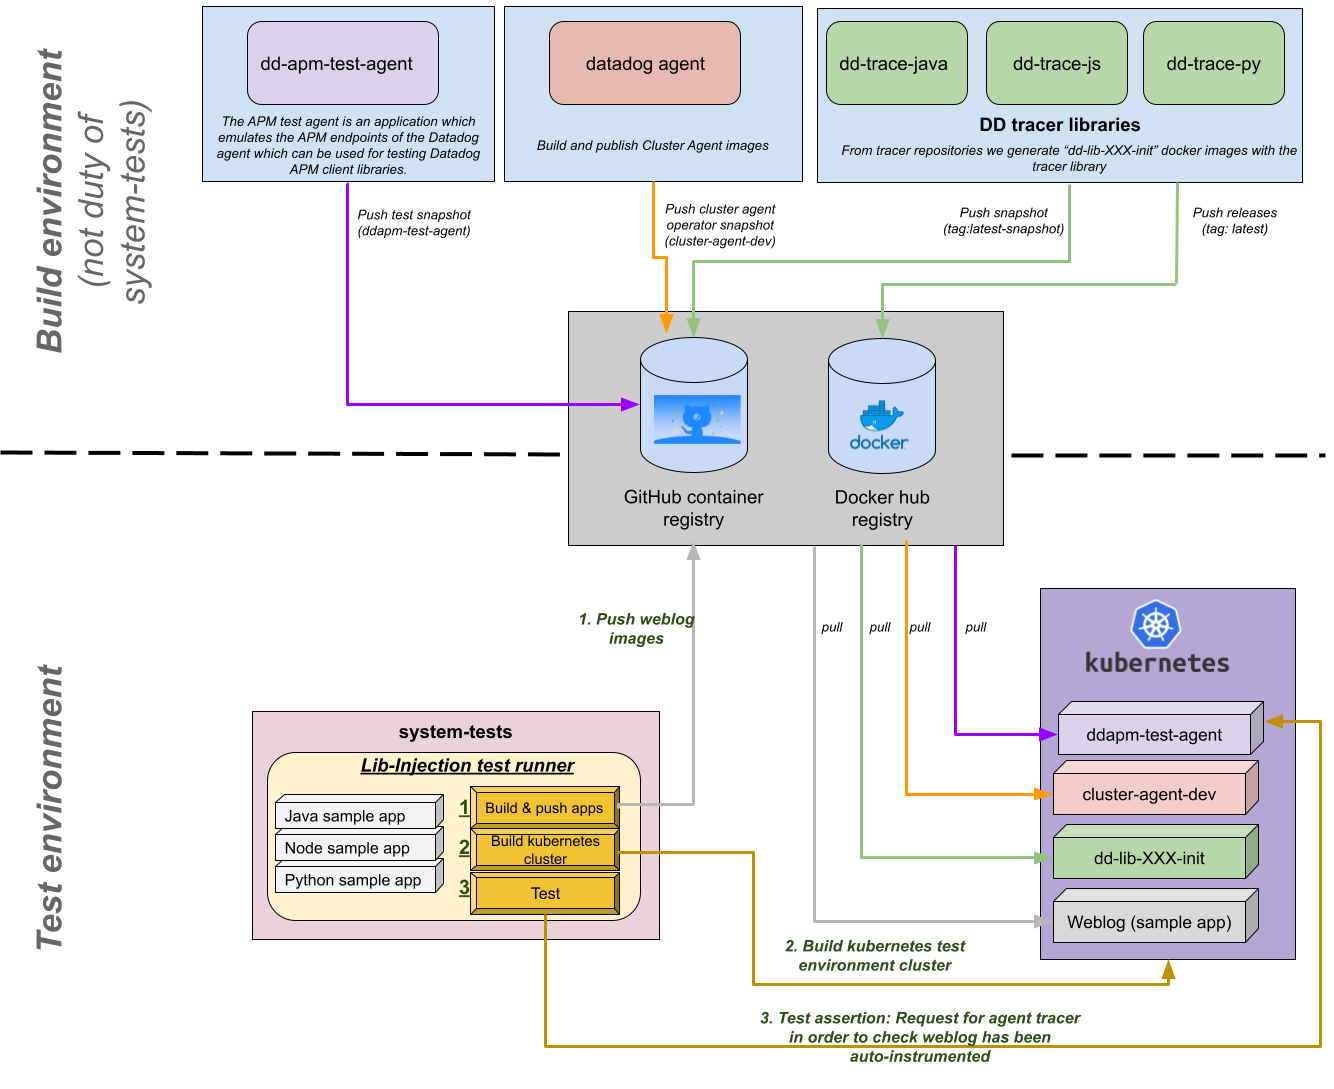
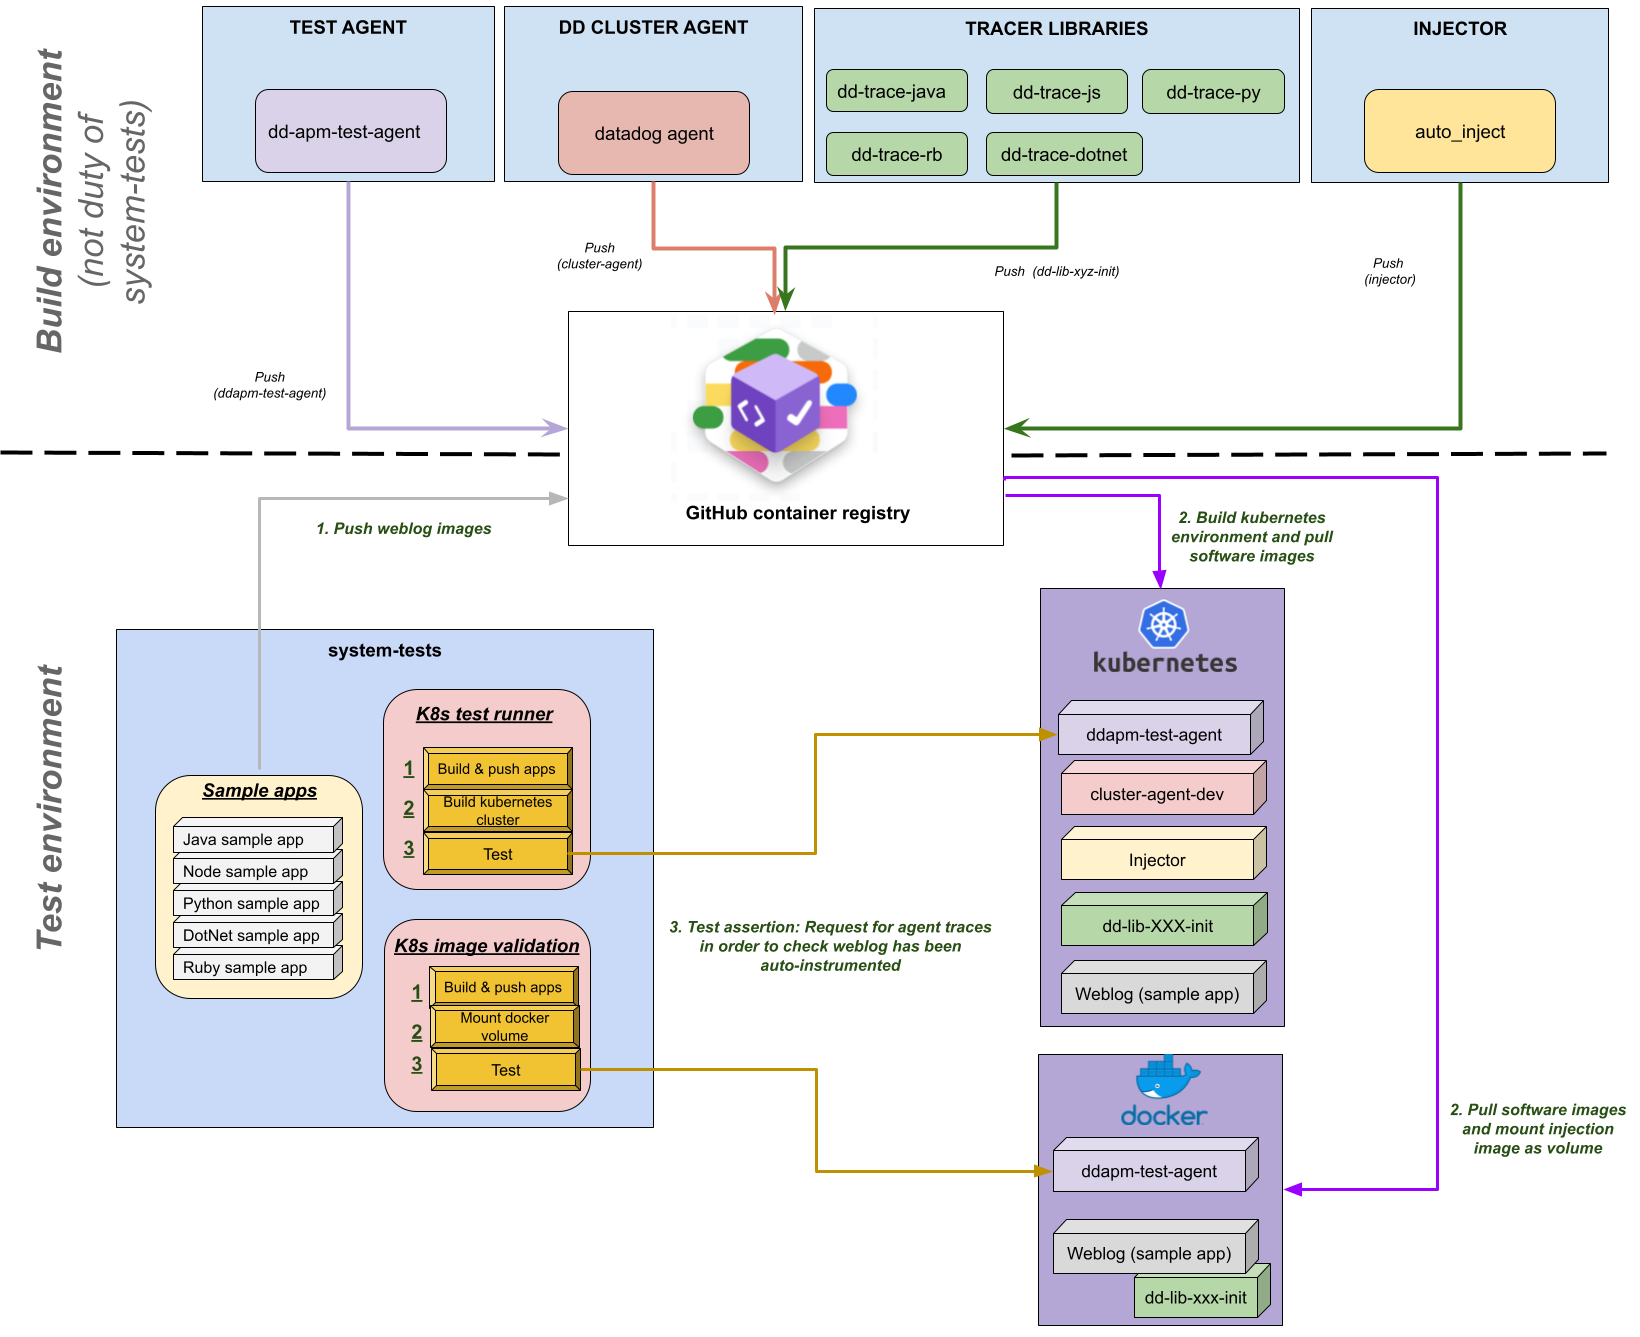
K8s documentation

diff --git a/docs/scenarios/k8s_lib_injection.md b/docs/scenarios/k8s_lib_injection.md
@@ -1,6 +1,17 @@
-# lib-injection feature
+# Testing K8s library injection feature
 
-## What is the lib-injection feature?
+1. [Overall](#Overall)
+    * [What is the library injection feature?](#What-is-the-k8s-library-injection-feature?)
+    * [What’s the Datadog Cluster Agent and why?](#What’s-the-Datadog-Cluster-Agent-and-why?)
+2. [K8s tested components](#K8s-tested-components)
+    * [Run K8s library image validation](#Run-K8s-library-image-validation)
+    * [Run K8s library injection tests](#Run-K8s-library-image-validation)
+3. [Third Example](#third-example)
+4. [Fourth Example](#fourth-examplehttpwwwfourthexamplecom)
+
+## Overall
+
+### What is the k8s library injection feature?
 
 The lib-injection project is a feature to allow injection of the Datadog library
 into a customer's application container without requiring them to modify their
@@ -13,17 +24,13 @@ APM libraries.
 Currently, there are two different ways to have the Datadog library injected
 into the application container:
 
-1) Manually via Kubernetes annotations:
-  * Using Datadog Admission Controller: [Injecting Libraries Kubernetes](https://docs.datadoghq.com/tracing/trace_collection/admission_controller/).
-  * Adding library injection specific annotations (without Datadog Admission Controller): [Application Instrumentation](https://docs.datadoghq.com/tracing/trace_collection/), [Add the Datadog Tracing Library](https://docs.datadoghq.com/tracing/trace_collection/)
-2) Automatically with Remote Config via the Datadog UI.
-
-`Remote config is tricky to test in a isolated environment. K8s Lib Injection tests use Kubernetes ConfigMap to emulate the configuration applied through Datadog Remote Config utility. Kubernetes ConfigMaps allows the injection of configuration into an application. ConfigMap can be injected as environment variables or mounted files.`
-
-[Read more about the Kubernetes ConfigMaps](https://kubernetes.io/docs/concepts/configuration/configmap/)
+1) **Manually via Kubernetes annotations**:
+    * Using Datadog Admission Controller: [Injecting Libraries Kubernetes](https://docs.datadoghq.com/tracing/trace_collection/admission_controller/).
+    * Adding library injection specific annotations (without Datadog Admission Controller): [Application Instrumentation](https://docs.datadoghq.com/tracing/trace_collection/), [Add the Datadog Tracing Library](https://docs.datadoghq.com/tracing/trace_collection/)
+2) **Automatically with Remote Config via the Datadog UI.**
 
 
-## What’s the Datadog Cluster Agent and why?
+### What’s the Datadog Cluster Agent and why?
 
 The Cluster Agent is a different binary (vs the regular Agent), written in Go in the same DataDog/datadog-agent repo and is installed as a Deployment in Kubernetes, not a DaemonSet. It’s an essential component for cluster-level monitoring.
 
@@ -34,26 +41,58 @@ Kubernetes admission controllers are plugins that govern and enforce how the clu
 
 The Datadog admission controller is a component of the Datadog Cluster Agent. It leverages the Kubernetes mutatingwebhookconfigurations.admissionregistration.k8s.io API.
 
-# Validating lib-injection images
+## K8s tested components
+
+K8s Library injection testing is part of the "system-tests" test suite.
+
+As a final purpose we want to check the correct operation of all Datadog components involved in the auto instrumentation of the applications deployed in a kubernetes cluster.
+
+In this proccess there are several software components that participate so that auto-instrumentation can be done:
+
+- **Cluster agent:** Software component, written in Go, that resides on the DataDog/datadog-agent repository and is installed as a Deployment in Kubernetes.
+- **Injector image:** Directly involved in auto-instrumentation. Resides on Datadog/auto_inject repository.
+- **Library image:** Contains the tracer library to be injected in the pods.
+
+These test components are also involved in the testing process:
+
+- **System-tests runner:** The core of the system-tests is the reponsible for orchestrate the tests execution and manage the tests results.
+- **Dev test agent:**  The APM Test Agent container help us to perform the validations ([APM Test Agent](https://github.com/DataDog/dd-apm-test-agent)).
+- **Sample app/weblog:** Containerized sample application implemented on Java, Nodejs, dotNet, Ruby or Python.
+
+The following image represents, in general terms, the necessary and dependent architecture to be able to run the K8s library injection tests:
+
+![Architecture overview](../lib-injection/lib-injection-tests.png "Architecture overview")
+
+### Run K8s library image validation
 
 We have created some simple tests, able to auto inject the tracer library in any application running in a docker container.
-On the test application container (weblog) the lib-init image will be attached as a docker volume and the environment variables, necessary for auto injection, will be attached.
+On the test application container (weblog), the lib-init image will be attached as a docker volume and the environment variables, necessary for auto injection, will be attached.
 The only requirement of the weblog application is that it is listening on port 18080.
-The weblog will be deployed next to the APM Test Agent container, which will help us to perform the validations ([APM Test Agent](https://github.com/DataDog/dd-apm-test-agent)).
+The weblog will be deployed together with the APM Test Agent container, which will help us to perform the validations ([APM Test Agent](https://github.com/DataDog/dd-apm-test-agent)).
 
 Now we can test the auto instrumentation on any image in two simple steps:
 
-1. Build your app image and tag locally as "weblog-injection:latest". :
+1. **Build your app image and tag locally as "weblog-injection:latest"** :
+
 ``` docker build  -t weblog-injection:latest .```
-    b. You could use the existing weblog apps under _lib-injection/build/docker_ folder. Use the existing script to build them:
+
+  You could use the existing weblog apps under __lib-injection/build/docker__ folder. Use the existing script to build them:
+
 ``` lib-injection/build/build_lib_injection_weblog.sh -w [existing weblog] -l [java,nodejs,dotnet,ruby,python]  ```
 
-2. Run the scenario that checks if weblog app is auto instrumented and sending traces to the _Dev Test Agent_:
+ie:
+```
+lib-injection/build/build_lib_injection_weblog.sh -w dd-lib-dotnet-init-test-app -l dotnet
+```
+
+2. **Run the scenario that checks if weblog app is auto instrumented and sending traces to the _Dev Test Agent_**:
 ```
 TEST_LIBRARY=dotnet
 LIB_INIT_IMAGE=ghcr.io/datadog/dd-trace-dotnet/dd-lib-dotnet-init:latest_snapshot
 ./run.sh LIB_INJECTION_VALIDATION
 ```
+
+#### Validating lib-injection images under not supported language runtime version
 
 You can also validate weblog applications that the language version is not supported by the tracer. The scenario will check that the app is running although the app is not instrumented:
 ```
@@ -63,33 +102,20 @@ LIB_INIT_IMAGE=ghcr.io/datadog/dd-trace-java/dd-lib-java-init:latest_snapshot
 ./run.sh LIB_INJECTION_VALIDATION_UNSUPPORTED_LANG
 ```
 
-
-# K8s lib-injection feature testing
-
-Lib injection testing is part of the "system-tests" test suite.
-
-To test lib-injection/autoinstrumentation feature, we run a Kubernetes cluster with the Datadog Cluster Agent and we check that the instrumentation runs smoothly using different sample applications (weblog) in different languages (currently Java, Python, Node, DotNet and Ruby).
-
-The following image represents, in general terms, the necessary and dependent architecture to be able to run lib-injection tests:
-
-![Architecture overview](../lib-injection/lib-injection-tests.png "Architecture overview")
-
-##  Kubernetes management to automate deployments
-
-In order to build a simple and automated integration test suite, the "K8s Lib Injection" tests are based on Kubernetes Python Client.
-[Read more about Kubernetes Python Client](https://github.com/kubernetes-client/python)
-
 ## Folders and Files structure
 
 The following picture shows the main directories for the k8s lib injection tests:
 
 ![Folder structure](../lib-injection/k8s_lib_injections_folders.png "Folder structure")
 
+The folders and files shown in the figure above are as follows:
+
 * **lib-injection/build/docker:** This folder contains the sample applications with the source code and scripts that allow us to build and push docker weblog images.
 * **tests/k8s_lib_injection:** All tests cases are stored on this folder. Conftests.py file manages the kubernetes cluster lifecycle.
+* **utils/_context/scenarios:**: In this folder you can find the K8s Lib injection scenario definition.
 * **utils/k8s_lib_injection:** Here we can find the main utilities for the control and deployment of the components to be tested. For example:
   * **k8s_kind_cluster.py:** Tools for creating and destroying the Kubernetes cluster.
-  * **k8s_datadog_cluster_agent.py:** Utils for:
+  * **k8s_datadog_kubernetes.py:** Utils for:
     - Deploy Datadog Cluster Agent
     - Deploy Datadog Admission Controller
     - Apply Kubernetes ConfigMap
@@ -112,7 +138,9 @@ These tests can run locally easily. You only have to install the environment and
 
 ### Docker enviroment
 
-You should install the docker desktop on your computer and **be loged into a personal Docker Hub account**
+You should install the docker desktop on your laptop.
+You need to access to GHCR.
+Usually you only need to access to GHCR to pull the images, but you can also push your custom images to your Docker Hub account. To do that you need login to Docker Hub account:
 
 ```cat ~/my_password.txt | docker login --username my_personal_user --password-stdin ```
 
@@ -166,46 +194,114 @@ The next step is define the environment variables. This is an example of env var
 ```sh
 export TEST_LIBRARY=java
 export WEBLOG_VARIANT=dd-lib-java-init-test-app #Which variant do we want to use?
-export LIBRARY_INJECTION_TEST_APP_IMAGE=docker.io/MY_DOCKERHUB_USERNAME/dd-lib-java-init-test-app:local #Use your docker hub account as registry
+export LIBRARY_INJECTION_TEST_APP_IMAGE=ghcr.io/datadog/system-tests/dd-lib-java-init-test-app:latest #weblog variant in the registry
 export LIB_INIT_IMAGE=gcr.io/datadoghq/dd-lib-java-init:latest # What is the lib init image that we want to test?
+export CLUSTER_AGENT_VERSION=7.56.2
+export INJECTOR_IMAGE=TODO
 ```
+---
+**NOTE: Injector image**
 
-## Build and Push weblog image
+Currently the tests do not allow selection of the injector image. The image used will be the one pointed by the cluster agent by default.
 
-You need to build and push weblog application to docker registry. You can use this script:
+---
+
+# Set tested components versions
+
+
+
+### Weblog image
+
+The images of sample applications are automatically uploaded to the GHCR registry by the CI.
+
+But in case you want to build your own custom version of the application, you can do the following (the weblog images must be allwasys on a docker registry):
 
 ```sh
+  export LIBRARY_INJECTION_TEST_APP_IMAGE=ghcr.io/datadog/system-tests/dd-lib-java-init-test-app:my_custom_tag #weblog variant in the registry
   lib-injection/build/build_lib_injection_weblog.sh -w $WEBLOG_VARIANT -l $TEST_LIBRARY --push-tag $LIBRARY_INJECTION_TEST_APP_IMAGE
 ```
-## Build and Push init image
 
-If you want to test the latest dd-lib-LANG-init image, you can skip this step.
-If you want to test your own dd-lib-LANG-init image, you can build by yourself from source code or you can use a existing one:
+or if you don't have the permission to push the image to GHCR, you can use your docker hub account (after loging into it):
 
 ```sh
-export LIB_INIT_IMAGE=docker.io/MY_DOCKERHUB_USERNAME/dd-lib-java-init:local
-docker pull ghcr.io/datadog/dd-trace-java/dd-lib-java-init:latest_snapshot
-docker tag ghcr.io/datadog/dd-trace-java/dd-lib-java-init:latest_snapshot $LIB_INIT_IMAGE
-docker push $LIB_INIT_IMAGE
+  export LIBRARY_INJECTION_TEST_APP_IMAGE=registry.hub.docker.com/<user>/dd-lib-java-init:my_custom_tag #weblog variant in the registry
+  lib-injection/build/build_lib_injection_weblog.sh -w $WEBLOG_VARIANT -l $TEST_LIBRARY --push-tag $LIBRARY_INJECTION_TEST_APP_IMAGE
 ```
+
+The sample applications currently available in GHCR are:
+
+|  LANG | WEBLOG IMAGE |
+|---|---|
+| Java |  ghcr.io/datadog/system-tests/dd-lib-java-init-test-app:latest  |
+| Java | ghcr.io/datadog/system-tests/dd-djm-spark-test-app:latest  |
+| DotNet  | ghcr.io/datadog/system-tests/dd-lib-dotnet-init-test-app:latest  |
+| Nodejs  | ghcr.io/datadog/system-tests/sample-app:latest  |
+| Python  | ghcr.io/datadog/system-tests/dd-lib-python-init-test-django:latest  |
+| Python  | ghcr.io/datadog/system-tests/dd-lib-python-init-test-django-gunicorn:latest  |
+| Python  | ghcr.io/datadog/system-tests/dd-lib-python-init-test-django-gunicorn-alpine:latest  |
+| Python  | ghcr.io/datadog/system-tests/dd-lib-python-init-test-django-preinstalled:latest  |
+| Python  | ghcr.io/datadog/system-tests/dd-lib-python-init-test-django-unsupported-package-force:latest  |
+| Python  | ghcr.io/datadog/system-tests/dd-lib-python-init-test-django-uvicorn:latest  |
+| Python  | ghcr.io/datadog/system-tests/dd-lib-python-init-test-protobuf-old:latest  |
+| Ruby  | ghcr.io/datadog/system-tests/dd-lib-ruby-init-test-rails:latest  |
+| Ruby  | ghcr.io/datadog/system-tests/dd-lib-ruby-init-test-rails-explicit":latest  |
+| Ruby  | ghcr.io/datadog/system-tests/dd-lib-ruby-init-test-rails-gemsrb:latest  |
+
+### Library init image
+
+The library init images are created by each tracer library and these images will be pushed to the registry using two tags:
+* **latest:** The latest release of the image.
+* **latest_snapshot:** The image created when we build the main branch of the tracer library.
+
+The list of available images is:
+
+|  LANG | LIB INIT IMAGE |
+|---|---|
+| Java |  gcr.io/datadoghq/dd-lib-java-init:latest |
+| Java | ghcr.io/datadog/dd-trace-java/dd-lib-java-init:latest_snapshot  |
+| DotNet  | gcr.io/datadoghq/dd-lib-dotnet-init:latest |
+| DotNet  | ghcr.io/datadog/dd-trace-dotnet/dd-lib-dotnet-init:latest_snapshot |
+| Nodejs  | gcr.io/datadoghq/dd-lib-js-init:latest |
+| Nodejs  | ghcr.io/datadog/dd-trace-js/dd-lib-js-init:latest_snapshot |
+| Python  | gcr.io/datadoghq/dd-lib-python-init:latest |
+| Python  | ghcr.io/datadog/dd-trace-py/dd-lib-python-init:latest_snapshot  |
+| Ruby  | gcr.io/datadoghq/dd-lib-ruby-init:latest  |
+| Ruby  | ghcr.io/datadog/dd-trace-rb/dd-lib-ruby-init:latest_snapshot |
+
+### Datadog Cluster Agent
+
+The Datadog Cluster Agent versions available for tests are:
+- 7.56.2
+- 7.57.0
+- 7.59.0
+
+### Injector image
+
+TODO
 
 ## Run the tests
 
-These K8s Lib Injection tests are fully integrated into system-tests life cycle. If we followed the previous steps, we only have to execute this command:
+If we have followed the previous steps, we already have the environment configured and we only need to run any of the available scenarios:
+- **K8S_LIBRARY_INJECTION_BASIC:** Minimal test scenario that run a Kubernetes cluster and test that the application is being instrumented automatically.
+- **K8S_LIBRARY_INJECTION_PROFILING:** Test profiling feature inside of Kubernetes cluster.
+- **K8S_LIBRARY_INJECTION_DJM:** Allow us to verify the k8s injection continue to work for Data Jobs Monitoring as new Java tracer, new auto_inject, and new cluster_agent are being released.
 
-```sh
-  ./run.sh K8S_LIBRARY_INJECTION_FULL
-```
-
-A minimum test scenario is also included. You can run it:
+Run the minimal test scenario:
 
 ```sh
   ./run.sh K8S_LIBRARY_INJECTION_BASIC
 ```
 
-# Test development
+### DJM Scenario
 
-All test cases for K8S_LIB_INJECTION will run on an isolated Kubernetes environment. For each test case we are going to start up a Kubernetes Cluster. In this way we can run the tests in parallel.
+The following image ilustrates the DJM scenario:
+
+![DJM Scenario](../lib-injection/k8s_djm.png "DJM Scenario")
+
+
+## Test development
+
+All test cases for K8s will run on an isolated Kubernetes environment. For each test case we are going to start up a Kubernetes Cluster. In this way we can run the tests in parallel.
 Each test case will receive a "test_k8s_instance" object with these main properties loaded:
 * **library:** Current testing library (java, python...)
 * **weblog_variant:** Current sample application name (weblog name)
@@ -227,7 +323,6 @@ The "test_k8s_instance" also contains some basic methods, that you can use direc
 * deploy_test_agent
 * deploy_weblog_as_pod
 * deploy_weblog_as_deployment
-* apply_config_auto_inject
 * export_debug_info
 
 Feel free to use the methods listed above or use the methods encapsulated in both "k8s_datadog_cluster_agent" and "k8s_weblog" or directly use the Kubernates Python Client to manipulate the Kunernates cluster components.
